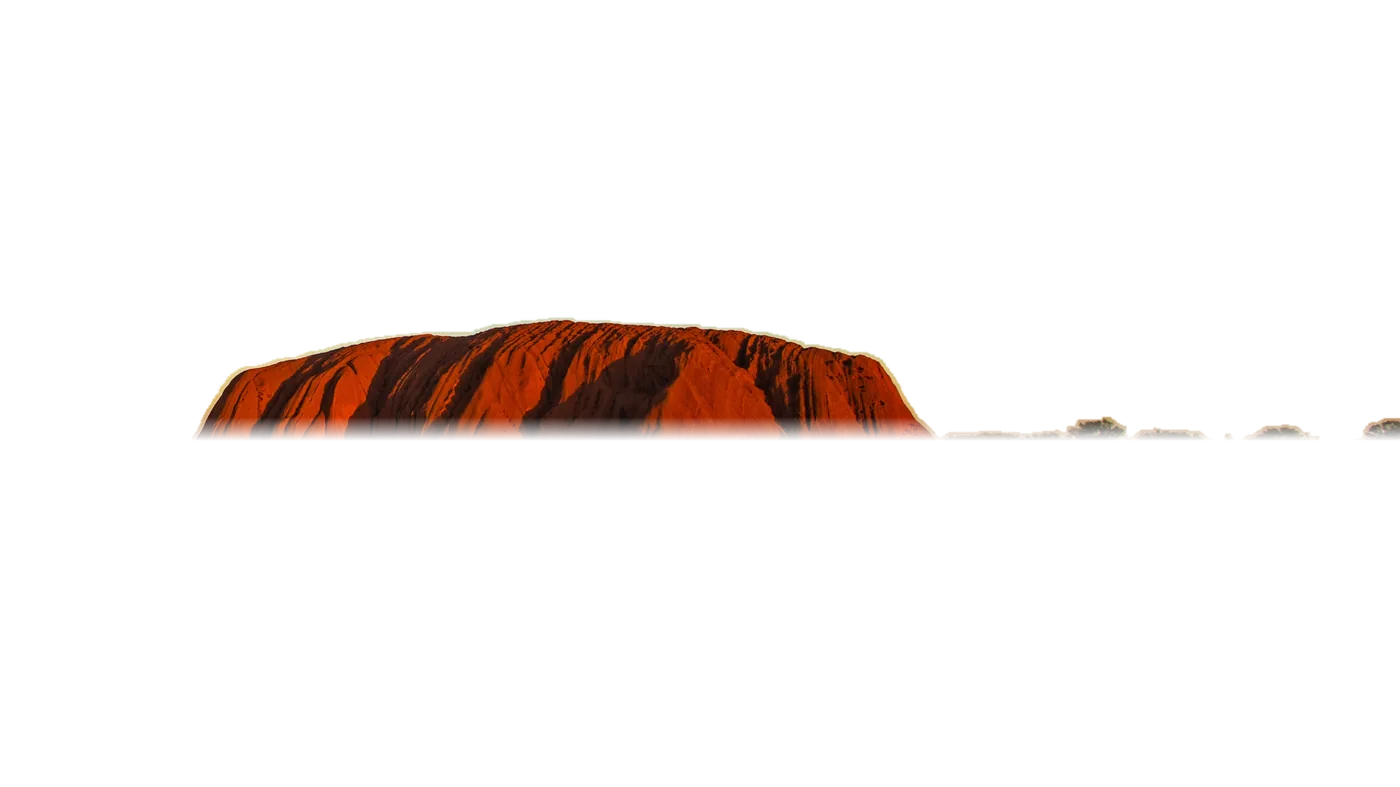
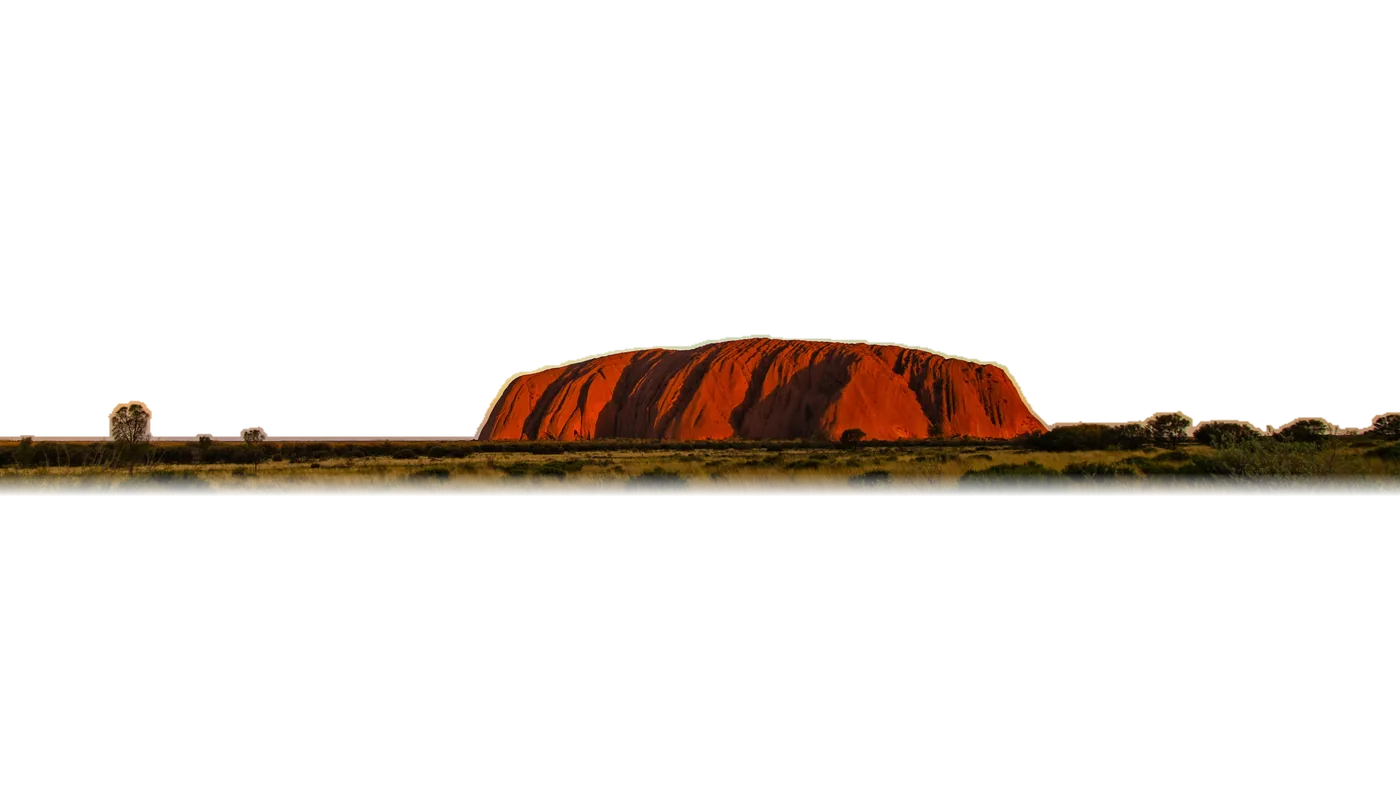
Sharpen the hero on phones and set each word behind its landmark there
On a tall screen the photo is sized by height, so it renders far wider
than the screen; sizes="100vw" made phones fetch the 1400px file and
stretch it 1.7-2.6x. Each slide's sizes now gives its real width on tall
screens, so phones get the 2400/3200px files.

Uluru is re-cropped wider from the original (4000x2250, was 3048x1714),
so it no longer has to be enlarged. On phones each word now sits where
its landmark cuts into it, and the subheading takes the site's .lead type.

Changed region(s): [[0.0, 0.3964, 1.0, 0.6404]]

diff --git a/index.html b/index.html
@@ -636,7 +636,8 @@ footer{background:var(--deep);color:var(--on-deep-2);padding-block:clamp(2.2rem,
   display:flex;justify-content:space-between;align-items:flex-end;gap:1.5rem}
 .dh-card{max-width:32rem}
 .dh-card .label{color:var(--gold);margin:0 0 .65rem;text-shadow:0 1px 10px rgba(0,0,0,.5)}
-.dh-sub{margin:0 0 1.3rem;font-size:clamp(1rem,1.2vw,1.15rem);line-height:1.5;color:#fff;max-width:40ch;text-shadow:0 1px 2px rgba(0,0,0,.45),0 2px 18px rgba(0,0,0,.5)}
+/* the site's own .lead type (Inter, 1.2-1.35rem, 1.55 leading), in white for the photograph */
+.dh-sub{margin:0 0 1.3rem;color:#fff;max-width:40ch;text-shadow:0 1px 2px rgba(0,0,0,.45),0 2px 18px rgba(0,0,0,.5)}
 .dh-cta{display:flex;align-items:center;gap:.4rem}
 /* the same type as every other button on the site: IBM Plex Mono, small capitals, wide tracking */
 .dh-pill{font-family:var(--f-mono);text-transform:uppercase;font-size:.84rem;letter-spacing:.16em;padding:1rem 1.6rem;border-radius:999px;white-space:nowrap}
@@ -733,40 +734,40 @@ footer{background:var(--deep);color:var(--on-deep-2);padding-block:clamp(2.2rem,
      stands in front of the letters. Built by Design source/hero-concepts/depth.py. -->
 <section class="dh" id="hero" data-dark data-tx="rise" aria-label="Study in Australia">
   <div class="dh-stage">
-    <div class="dh-slide on" data-ar="1.5003" data-y="0.355" data-ym="0.33" data-w="0.92" data-place="Sydney Opera House · NSW" style="--pos:50% 40%">
-      <div class="dh-pan"><img class="dh-bg" src="img/depth/cloudy-bg-1400.webp" srcset="img/depth/cloudy-bg-1400.webp 1400w, img/depth/cloudy-bg-2400.webp 2400w, img/depth/cloudy-bg-3200.webp 3200w" sizes="100vw" alt="The Sydney Opera House and the city skyline across the harbour under a cloudy sky." fetchpriority="high"></div>
+    <div class="dh-slide on" data-ar="1.5003" data-y="0.355" data-ym=".40" data-w="0.92" data-place="Sydney Opera House · NSW" style="--pos:50% 40%">
+      <div class="dh-pan"><img class="dh-bg" src="img/depth/cloudy-bg-1400.webp" srcset="img/depth/cloudy-bg-1400.webp 1400w, img/depth/cloudy-bg-2400.webp 2400w, img/depth/cloudy-bg-3200.webp 3200w" sizes="(max-aspect-ratio: 3/2) 150vh, 100vw" alt="The Sydney Opera House and the city skyline across the harbour under a cloudy sky." fetchpriority="high"></div>
       <span class="dh-word" aria-hidden="true">AUSTRALIA</span>
-      <img class="dh-fg" src="img/depth/cloudy-fg-1400.webp" srcset="img/depth/cloudy-fg-1400.webp 1400w, img/depth/cloudy-fg-2400.webp 2400w, img/depth/cloudy-fg-3200.webp 3200w" sizes="100vw" alt="">
+      <img class="dh-fg" src="img/depth/cloudy-fg-1400.webp" srcset="img/depth/cloudy-fg-1400.webp 1400w, img/depth/cloudy-fg-2400.webp 2400w, img/depth/cloudy-fg-3200.webp 3200w" sizes="(max-aspect-ratio: 3/2) 150vh, 100vw" alt="">
       <span class="dh-study" aria-hidden="true">Study in</span>
     </div>
-    <div class="dh-slide" data-ar="1.5" data-y="0.305" data-ym="0.16" data-w="0.9" data-place="St Kilda, Melbourne · VIC" style="--pos:50% 0%">
-      <div class="dh-pan"><img class="dh-bg" data-src="img/depth/lunapark-bg-1400.webp" data-srcset="img/depth/lunapark-bg-1400.webp 1400w, img/depth/lunapark-bg-2400.webp 2400w, img/depth/lunapark-bg-3200.webp 3200w" sizes="100vw" alt="A number 96 tram outside Luna Park in St Kilda, Melbourne."></div>
+    <div class="dh-slide" data-ar="1.5" data-y="0.305" data-ym=".30" data-w="0.9" data-place="St Kilda, Melbourne · VIC" style="--pos:50% 0%">
+      <div class="dh-pan"><img class="dh-bg" data-src="img/depth/lunapark-bg-1400.webp" data-srcset="img/depth/lunapark-bg-1400.webp 1400w, img/depth/lunapark-bg-2400.webp 2400w, img/depth/lunapark-bg-3200.webp 3200w" sizes="(max-aspect-ratio: 3/2) 150vh, 100vw" alt="A number 96 tram outside Luna Park in St Kilda, Melbourne."></div>
       <span class="dh-word" aria-hidden="true">AUSTRALIA</span>
-      <img class="dh-fg" data-src="img/depth/lunapark-fg-1400.webp" data-srcset="img/depth/lunapark-fg-1400.webp 1400w, img/depth/lunapark-fg-2400.webp 2400w, img/depth/lunapark-fg-3200.webp 3200w" sizes="100vw" alt="">
+      <img class="dh-fg" data-src="img/depth/lunapark-fg-1400.webp" data-srcset="img/depth/lunapark-fg-1400.webp 1400w, img/depth/lunapark-fg-2400.webp 2400w, img/depth/lunapark-fg-3200.webp 3200w" sizes="(max-aspect-ratio: 3/2) 150vh, 100vw" alt="">
       <span class="dh-study" aria-hidden="true">Study in</span>
     </div>
-    <div class="dh-slide" data-ar="1.3353" data-y="0.4" data-ym="0.38" data-w="0.9" data-place="Brisbane · QLD" style="--pos:50% 45%">
-      <div class="dh-pan"><img class="dh-bg" data-src="img/depth/brisbane-bg-1400.webp" data-srcset="img/depth/brisbane-bg-1400.webp 1400w, img/depth/brisbane-bg-2400.webp 2400w, img/depth/brisbane-bg-3200.webp 3200w" sizes="100vw" alt="Brisbane's towers and the Story Bridge at dusk."></div>
+    <div class="dh-slide" data-ar="1.3353" data-y="0.4" data-ym=".492" data-w="0.9" data-place="Brisbane · QLD" style="--pos:50% 45%">
+      <div class="dh-pan"><img class="dh-bg" data-src="img/depth/brisbane-bg-1400.webp" data-srcset="img/depth/brisbane-bg-1400.webp 1400w, img/depth/brisbane-bg-2400.webp 2400w, img/depth/brisbane-bg-3200.webp 3200w" sizes="(max-aspect-ratio: 4/3) 134vh, 100vw" alt="Brisbane's towers and the Story Bridge at dusk."></div>
       <span class="dh-word" aria-hidden="true">AUSTRALIA</span>
-      <img class="dh-fg" data-src="img/depth/brisbane-fg-1400.webp" data-srcset="img/depth/brisbane-fg-1400.webp 1400w, img/depth/brisbane-fg-2400.webp 2400w, img/depth/brisbane-fg-3200.webp 3200w" sizes="100vw" alt="">
+      <img class="dh-fg" data-src="img/depth/brisbane-fg-1400.webp" data-srcset="img/depth/brisbane-fg-1400.webp 1400w, img/depth/brisbane-fg-2400.webp 2400w, img/depth/brisbane-fg-3200.webp 3200w" sizes="(max-aspect-ratio: 4/3) 134vh, 100vw" alt="">
       <span class="dh-study" aria-hidden="true">Study in</span>
     </div>
-    <div class="dh-slide ink" data-ar="1.5011" data-y="0.345" data-ym="0.3" data-w="0.9" data-place="Perth · WA" style="--pos:50% 40%">
-      <div class="dh-pan"><img class="dh-bg" data-src="img/depth/perth-bg-1400.webp" data-srcset="img/depth/perth-bg-1400.webp 1400w, img/depth/perth-bg-2400.webp 2400w, img/depth/perth-bg-3200.webp 3200w" sizes="100vw" alt="Perth's city skyline above the Swan River at sunset."></div>
+    <div class="dh-slide ink" data-ar="1.5011" data-y="0.345" data-ym=".27" data-w="0.9" data-place="Perth · WA" style="--pos:50% 40%">
+      <div class="dh-pan"><img class="dh-bg" data-src="img/depth/perth-bg-1400.webp" data-srcset="img/depth/perth-bg-1400.webp 1400w, img/depth/perth-bg-2400.webp 2400w, img/depth/perth-bg-3200.webp 3200w" sizes="(max-aspect-ratio: 3/2) 150vh, 100vw" alt="Perth's city skyline above the Swan River at sunset."></div>
       <span class="dh-word" aria-hidden="true">AUSTRALIA</span>
-      <img class="dh-fg" data-src="img/depth/perth-fg-1400.webp" data-srcset="img/depth/perth-fg-1400.webp 1400w, img/depth/perth-fg-2400.webp 2400w, img/depth/perth-fg-3200.webp 3200w" sizes="100vw" alt="">
+      <img class="dh-fg" data-src="img/depth/perth-fg-1400.webp" data-srcset="img/depth/perth-fg-1400.webp 1400w, img/depth/perth-fg-2400.webp 2400w, img/depth/perth-fg-3200.webp 3200w" sizes="(max-aspect-ratio: 3/2) 150vh, 100vw" alt="">
       <span class="dh-study" aria-hidden="true">Study in</span>
     </div>
-    <div class="dh-slide ink" data-ar="1.5011" data-y="0.43" data-ym="0.42" data-w="0.9" data-place="Telstra Tower, Canberra · ACT" style="--pos:50% 50%">
-      <div class="dh-pan"><img class="dh-bg" data-src="img/depth/canberra-bg-1400.webp" data-srcset="img/depth/canberra-bg-1400.webp 1400w, img/depth/canberra-bg-2400.webp 2400w, img/depth/canberra-bg-3200.webp 3200w" sizes="100vw" alt="Telstra Tower on Black Mountain at sunset, Canberra."></div>
+    <div class="dh-slide ink" data-ar="1.5011" data-y="0.43" data-ym=".34" data-w="0.9" data-place="Telstra Tower, Canberra · ACT" style="--pos:50% 50%">
+      <div class="dh-pan"><img class="dh-bg" data-src="img/depth/canberra-bg-1400.webp" data-srcset="img/depth/canberra-bg-1400.webp 1400w, img/depth/canberra-bg-2400.webp 2400w, img/depth/canberra-bg-3200.webp 3200w" sizes="(max-aspect-ratio: 3/2) 150vh, 100vw" alt="Telstra Tower on Black Mountain at sunset, Canberra."></div>
       <span class="dh-word" aria-hidden="true">AUSTRALIA</span>
-      <img class="dh-fg" data-src="img/depth/canberra-fg-1400.webp" data-srcset="img/depth/canberra-fg-1400.webp 1400w, img/depth/canberra-fg-2400.webp 2400w, img/depth/canberra-fg-3200.webp 3200w" sizes="100vw" alt="">
+      <img class="dh-fg" data-src="img/depth/canberra-fg-1400.webp" data-srcset="img/depth/canberra-fg-1400.webp 1400w, img/depth/canberra-fg-2400.webp 2400w, img/depth/canberra-fg-3200.webp 3200w" sizes="(max-aspect-ratio: 3/2) 150vh, 100vw" alt="">
       <span class="dh-study" aria-hidden="true">Study in</span>
     </div>
-    <div class="dh-slide warm" data-ar="1.7783" data-y="0.385" data-ym="0.33" data-w="0.9" data-place="Uluru · NT" style="--pos:50% 50%">
-      <div class="dh-pan"><img class="dh-bg" data-src="img/depth/uluru-bg-1400.webp" data-srcset="img/depth/uluru-bg-1400.webp 1400w, img/depth/uluru-bg-2400.webp 2400w, img/depth/uluru-bg-3048.webp 3048w" sizes="100vw" alt="Uluru at dusk."></div>
+    <div class="dh-slide warm" data-ar="1.7778" data-y="0.39" data-ym=".418" data-w="0.9" data-place="Uluru · NT" style="--pos:55% 50%">
+      <div class="dh-pan"><img class="dh-bg" data-src="img/depth/uluru-bg-1400.webp" data-srcset="img/depth/uluru-bg-1400.webp 1400w, img/depth/uluru-bg-2400.webp 2400w, img/depth/uluru-bg-3200.webp 3200w" sizes="(max-aspect-ratio: 16/9) 178vh, 100vw" alt="Uluru at dusk."></div>
       <span class="dh-word" aria-hidden="true">AUSTRALIA</span>
-      <img class="dh-fg" data-src="img/depth/uluru-fg-1400.webp" data-srcset="img/depth/uluru-fg-1400.webp 1400w, img/depth/uluru-fg-2400.webp 2400w, img/depth/uluru-fg-3048.webp 3048w" sizes="100vw" alt="">
+      <img class="dh-fg" data-src="img/depth/uluru-fg-1400.webp" data-srcset="img/depth/uluru-fg-1400.webp 1400w, img/depth/uluru-fg-2400.webp 2400w, img/depth/uluru-fg-3200.webp 3200w" sizes="(max-aspect-ratio: 16/9) 178vh, 100vw" alt="">
       <span class="dh-study" aria-hidden="true">Study in</span>
     </div>
   </div>
@@ -775,7 +776,7 @@ footer{background:var(--deep);color:var(--on-deep-2);padding-block:clamp(2.2rem,
     <div class="dh-card">
       <p class="label">Independent Education Advisory</p>
       <h1 class="vh">Study in Australia</h1>
-      <p class="dh-sub">International education advice from someone who has worked inside Australian government, universities and education agencies.</p>
+      <p class="lead dh-sub">International education advice from someone who has worked inside Australian government, universities and education agencies.</p>
       <div class="dh-cta"><a class="dh-pill" href="https://calendar.app.google/3Y3mibwNrrSun34i9" target="_blank" rel="noopener">Book a discovery call</a><a class="dh-arrow" href="https://calendar.app.google/3Y3mibwNrrSun34i9" target="_blank" rel="noopener" aria-label="Book a discovery call">&#8599;</a></div>
     </div>
     <p class="dh-loc" aria-live="polite"><span class="dh-loc-t">Sydney Opera House · NSW</span></p>
